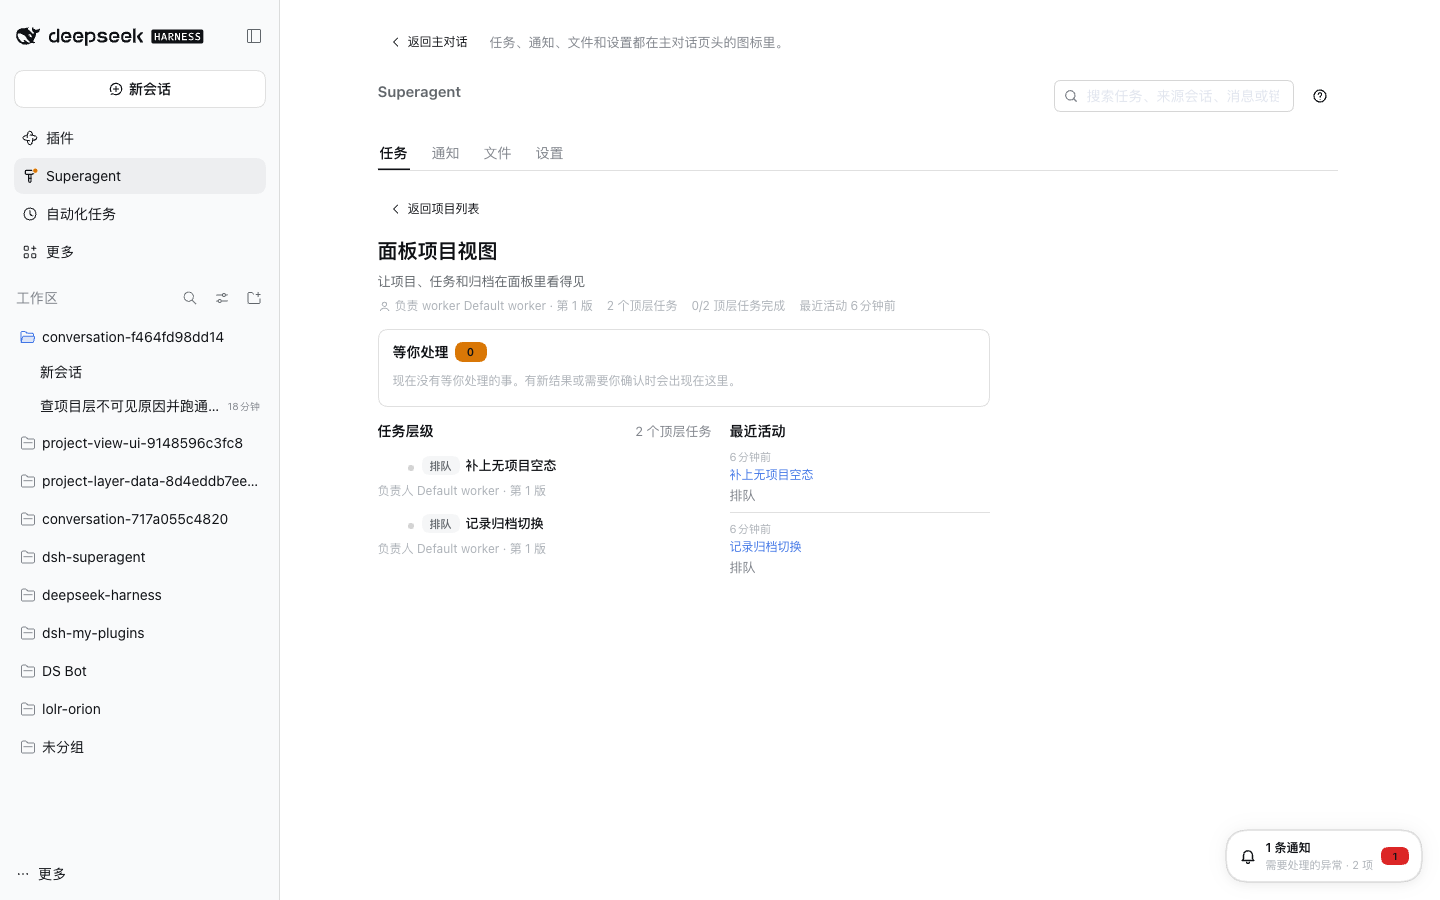
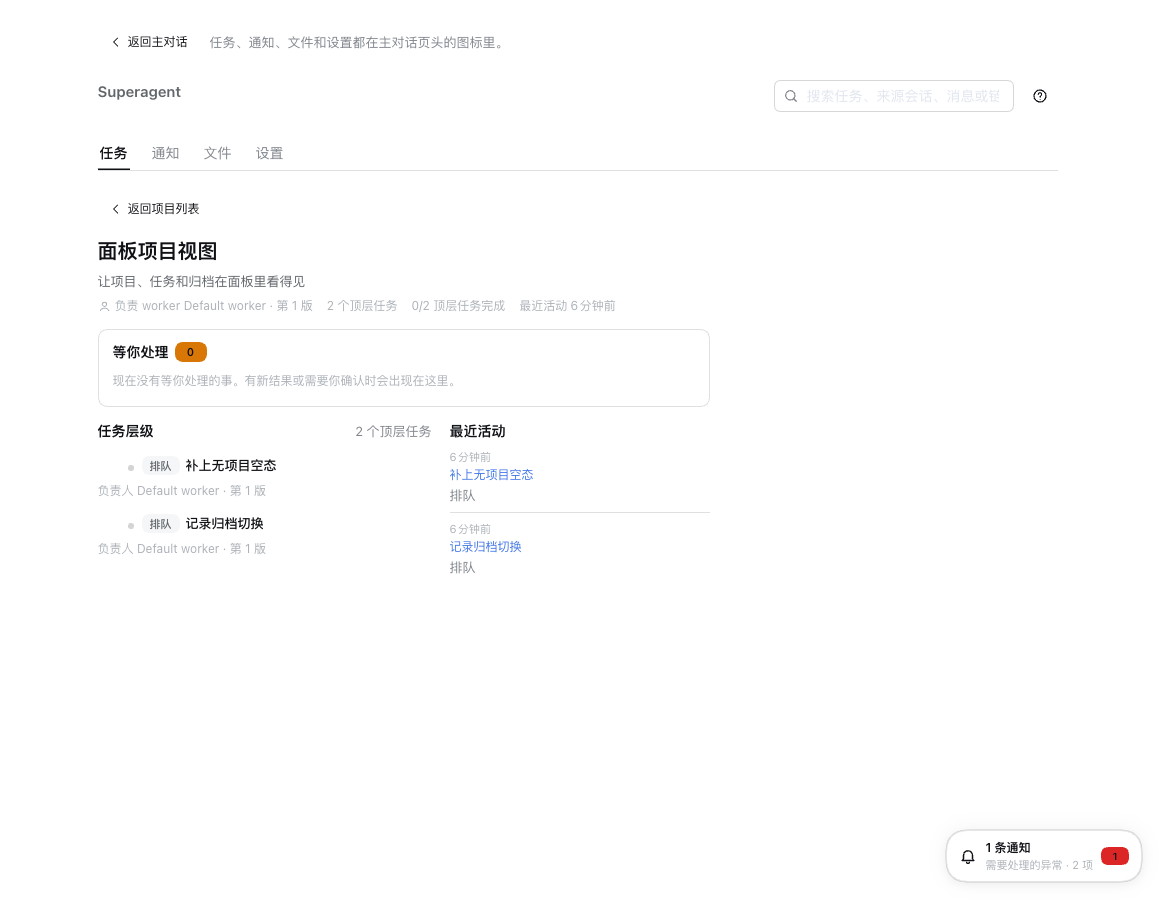
docs(029): crop the host sidebar from the evidence captures
The screenshots showed local workspace and session names in the host
sidebar. Crop it out (published images are 1160x900 from a 1440x900
viewport) and state the crop and the data provenance in the doc.

diff --git a/docs/029-project-task-view.zh.md b/docs/029-project-task-view.zh.md
@@ -37,7 +37,7 @@
 | 已归档 | 基线无归档概念 | 见 [after-archived-view.png](images/task-projects/empty-state/after-archived-view.png)：未归档/已归档切换与归档项目 |
 | 项目详情 | 基线无项目详情 | 见 [after-project-detail.png](images/task-projects/empty-state/after-project-detail.png)：负责 worker、顶层任务与最近活动 |
 
-> 截图统一 1440×900、浅色、zh-CN、DPR=1。Before/After 的数据都是真实 Ticket 记录（无项目旧数据 / 真实项目链路写入），不是 `GET tasks` fixture；截图里不含飞书私有内容。
+> 截图以 1440×900 视口、浅色、zh-CN、DPR=1 截取；为避免暴露本地工作区与会话名，发布前裁掉了宿主左侧栏（成品 1160×900），面板内容未改。Before/After 的数据都是真实 Ticket 记录（无项目旧数据 / 另一次真实 accept、admission、archive 运行写入临时状态目录，项目名与 E2E fixture 不同），不是浏览器注入的 `GET tasks` 响应；截图里不含飞书对话或人员内容。
 
 **真实应用截图（PR #87 历史记录；1440×900、浅色、zh-CN、DPR=1）：**
 
